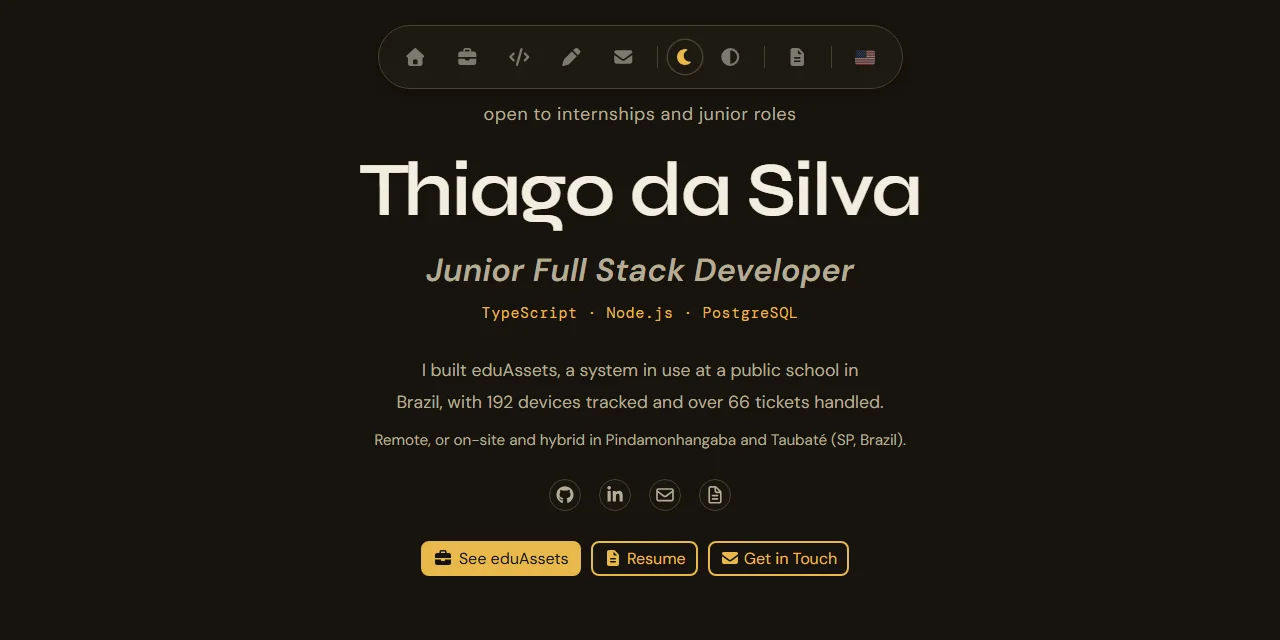
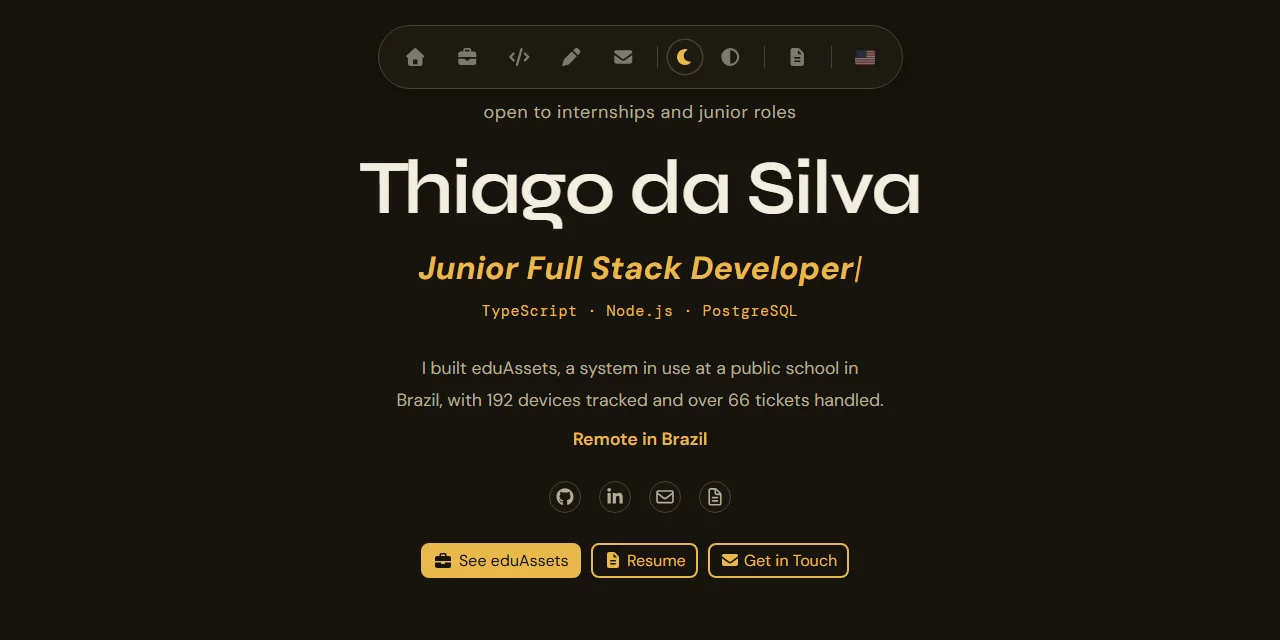
feat: restore hero typewriter with highlighted target role
- Bring back the typewriter and hold the target role longer, in bold and in the theme color
- Show only remote availability in Brazil, highlighted in the theme color
- Move the mouse away from the nav hover zone in the navbar test, which failed on Linux CI
- Regenerate the share images that show the hero

diff --git a/src/widgets/hero/Hero.tsx b/src/widgets/hero/Hero.tsx
@@ -8,6 +8,7 @@ import { SITE } from "~/shared/config/site";
 import { useLocalizedPath, useT } from "~/shared/i18n/useT";
 import { Icon } from "~/shared/ui/Icon";
 import { SECTION } from "~/shared/ui/section";
+import { Typewriter } from "./Typewriter";
 
 const SOCIAL_ICON =
   "inline-flex size-8 cursor-pointer items-center justify-center rounded-full border border-social-border bg-social-bg text-[1.1rem] text-social " +
@@ -35,8 +36,8 @@ export function Hero() {
         <h1 className="animate-fade-up [animation-delay:100ms] motion-reduce:animate-none self-center text-balance pb-[15px] font-[family-name:var(--font-hero)] text-[clamp(44px,6vw,84px)] leading-[1.15] text-text hc:text-link hc:[-webkit-text-fill-color:var(--link-color)]">
           {t("hero.title")}
         </h1>
-        <p className="hero-subtitle animate-fade-up [animation-delay:350ms] motion-reduce:animate-none self-center text-[32px] font-semibold italic tracking-[0.3px] text-muted max-bp1024:text-[28px] max-bp768:text-[26px] max-bp600:text-[24px] max-bp480:text-[22px] max-bp360:text-[19px]">
-          {t("hero.subtitle")}
+        <p className="hero-subtitle animate-fade-up [animation-delay:350ms] motion-reduce:animate-none self-center text-[32px] font-semibold italic tracking-[0.3px] text-muted max-bp1024:text-[28px] max-bp768:text-[26px] max-bp600:text-[24px] max-bp480:text-[22px] max-bp360:text-[19px] max-bp600:min-h-[2.6em]">
+          <Typewriter />
         </p>
         <p className="hero-stack animate-fade-up [animation-delay:425ms] motion-reduce:animate-none mt-3 font-[family-name:var(--font-mono)] text-[15px] tracking-[0.04em] text-link max-bp480:text-[13px]">
           {t("hero.stack")}
@@ -44,7 +45,7 @@ export function Hero() {
 
         <div className="hero-description animate-fade-up [animation-delay:500ms] motion-reduce:animate-none mt-8 max-w-[650px] text-balance text-center text-[1.1rem] leading-[1.8] text-muted max-bp1024:max-w-[620px] max-bp1024:text-[1.05rem] max-bp768:max-w-[520px] max-bp768:text-[1rem] max-bp768:leading-[1.7] max-bp600:mt-6 max-bp600:max-w-[400px] max-bp600:leading-[1.65] max-bp480:mt-7 max-bp480:max-w-[340px] max-bp480:leading-[1.6] max-bp360:max-w-[300px] max-bp360:text-[0.95rem]">
           <p>{t("hero.description")}</p>
-          <p className="mt-2 text-[0.95rem] max-bp480:text-[0.9rem]">{t("hero.location")}</p>
+          <p className="mt-2 font-semibold text-link">{t("hero.location")}</p>
         </div>
 
         <div className="hero-social-links animate-fade-up [animation-delay:600ms] motion-reduce:animate-none mb-[5px] mt-[25px] flex items-center justify-center gap-[18px]">

diff --git a/src/widgets/hero/Typewriter.tsx b/src/widgets/hero/Typewriter.tsx
@@ -1,0 +1,75 @@
+import { useEffect, useState } from "react";
+import { useT } from "~/shared/i18n/useT";
+import { useReducedMotion } from "~/shared/lib/useReducedMotion";
+
+const TYPE_SPEED = 75;
+const DELETE_SPEED = 40;
+const PAUSE_AFTER = 1800;
+const PAUSE_BEFORE = 300;
+// The first phrase is the target role: it stays on screen longer and takes the accent color.
+const PRIMARY_PAUSE_AFTER = 6000;
+
+// The first phrase is rendered in full (so the pre-rendered HTML and reduced-motion users get real
+// content); the animation then deletes it and cycles through the remaining phrases.
+export function Typewriter() {
+  const { tList } = useT();
+  const reduced = useReducedMotion();
+  const phrases = tList("hero.typewriter");
+  const signature = phrases.join("|");
+  const [text, setText] = useState(phrases[0] ?? "");
+  const [isPrimary, setIsPrimary] = useState(true);
+
+  useEffect(() => {
+    const list = signature.split("|");
+    setText(list[0] ?? "");
+    setIsPrimary(true);
+    if (reduced || list.length === 0) return;
+
+    let phrase = 0;
+    let chars = (list[0] ?? "").length;
+    let deleting = true;
+    let timer: ReturnType<typeof setTimeout>;
+
+    const tick = () => {
+      const current = list[phrase % list.length] ?? "";
+      if (deleting) {
+        chars -= 1;
+        setText(current.slice(0, chars));
+        if (chars === 0) {
+          deleting = false;
+          phrase = (phrase + 1) % list.length;
+          setIsPrimary(phrase === 0);
+          timer = setTimeout(tick, PAUSE_BEFORE);
+          return;
+        }
+        timer = setTimeout(tick, DELETE_SPEED);
+      } else {
+        chars += 1;
+        setText(current.slice(0, chars));
+        if (chars === current.length) {
+          deleting = true;
+          timer = setTimeout(tick, phrase === 0 ? PRIMARY_PAUSE_AFTER : PAUSE_AFTER);
+          return;
+        }
+        timer = setTimeout(tick, TYPE_SPEED);
+      }
+    };
+
+    timer = setTimeout(tick, PRIMARY_PAUSE_AFTER);
+    return () => clearTimeout(timer);
+  }, [signature, reduced]);
+
+  return (
+    <>
+      <span id="typewriter-target" className={isPrimary ? "font-bold text-link" : undefined}>
+        {text}
+      </span>
+      <span
+        className="typewriter-cursor ml-px inline-block animate-cursor-blink font-light text-link motion-reduce:animate-none"
+        aria-hidden="true"
+      >
+        |
+      </span>
+    </>
+  );
+}

diff --git a/tests/e2e/behavior.spec.ts b/tests/e2e/behavior.spec.ts
@@ -182,6 +182,8 @@ test.describe("navigation", () => {
     await page.setViewportSize({ width: 1440, height: 900 });
     await page.goto("/");
     await expect(page.locator("nav")).toHaveCSS("opacity", "1");
+    // The hover zone covers the top 70px, and the virtual mouse may start at (0, 0) depending on the platform.
+    await page.mouse.move(700, 500);
     await page.evaluate(() => window.scrollTo(0, 1500));
     await expect(page.locator("body")).toHaveClass(/scrolled-past-hero/);
     await expect(page.locator("nav")).toHaveCSS("opacity", "0");
@@ -411,7 +413,7 @@ test.describe("CV links", () => {
 test.describe("motion", () => {
   test.use({ reducedMotion: "reduce" });
 
-  test("with reduced motion nothing is hidden or transformed", async ({ page }) => {
+  test("with reduced motion nothing is hidden or transformed and the typewriter stays static", async ({ page }) => {
     await page.goto("/");
     await page.waitForTimeout(800);
     for (const selector of ["h1", ".hero-subtitle", ".hero-buttons", "#about", "#projects", "#contact"]) {
@@ -421,11 +423,25 @@ test.describe("motion", () => {
       }));
       expect(style, selector).toEqual({ opacity: "1", transform: "none" });
     }
-    await expect(page.locator(".hero-subtitle")).toHaveText("Junior Full Stack Developer");
+    const before = await page.locator("#typewriter-target").textContent();
+    await page.waitForTimeout(3200);
+    expect(await page.locator("#typewriter-target").textContent()).toBe(before);
+    expect(before).toBe("Junior Full Stack Developer");
   });
 });
 
 test.describe("motion enabled", () => {
+  test("the typewriter holds the highlighted role, then cycles to the next phrase", async ({ page }) => {
+    await page.goto("/");
+    const target = page.locator("#typewriter-target");
+    await expect(target).toHaveText("Junior Full Stack Developer");
+    await expect(target).toHaveClass(/text-link/);
+    await page.waitForTimeout(3000);
+    await expect(target).toHaveText("Junior Full Stack Developer");
+    await expect(target).toHaveText("an IT support technician", { timeout: 15000 });
+    await expect(target).not.toHaveClass(/text-link/);
+  });
+
   test("below-the-fold sections reveal on scroll and end fully visible", async ({ page }) => {
     await page.goto("/");
     await page.locator("#projects").scrollIntoViewIfNeeded();

diff --git a/src/app/styles/app.css b/src/app/styles/app.css
@@ -43,6 +43,7 @@
   --color-social-border: var(--social-icon-border);
   --color-social-bg: var(--social-icon-bg);
 
+  --animate-cursor-blink: cursor-blink 0.75s step-end infinite;
   --animate-spin-fast: spin-fast 0.7s linear infinite;
 
   --animate-fade-up: fade-up 0.7s cubic-bezier(0.215, 0.61, 0.355, 1) both;
@@ -55,6 +56,16 @@
     to {
       opacity: 1;
       transform: none;
+    }
+  }
+
+  @keyframes cursor-blink {
+    0%,
+    100% {
+      opacity: 1;
+    }
+    50% {
+      opacity: 0;
     }
   }
 
